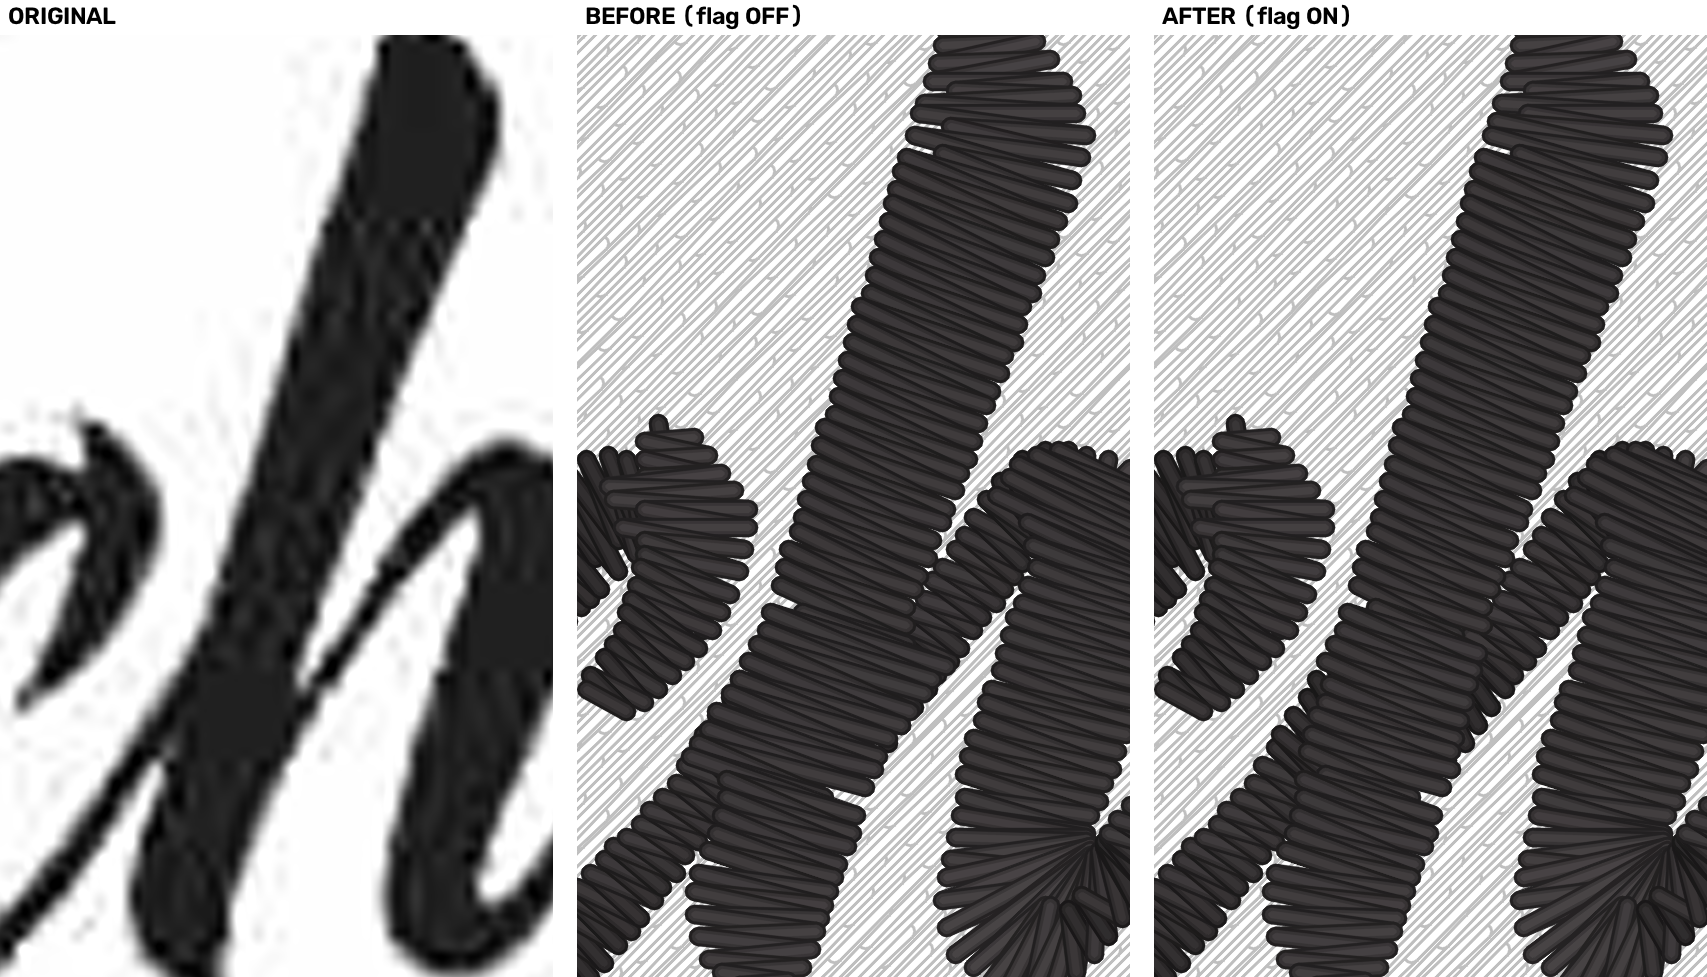
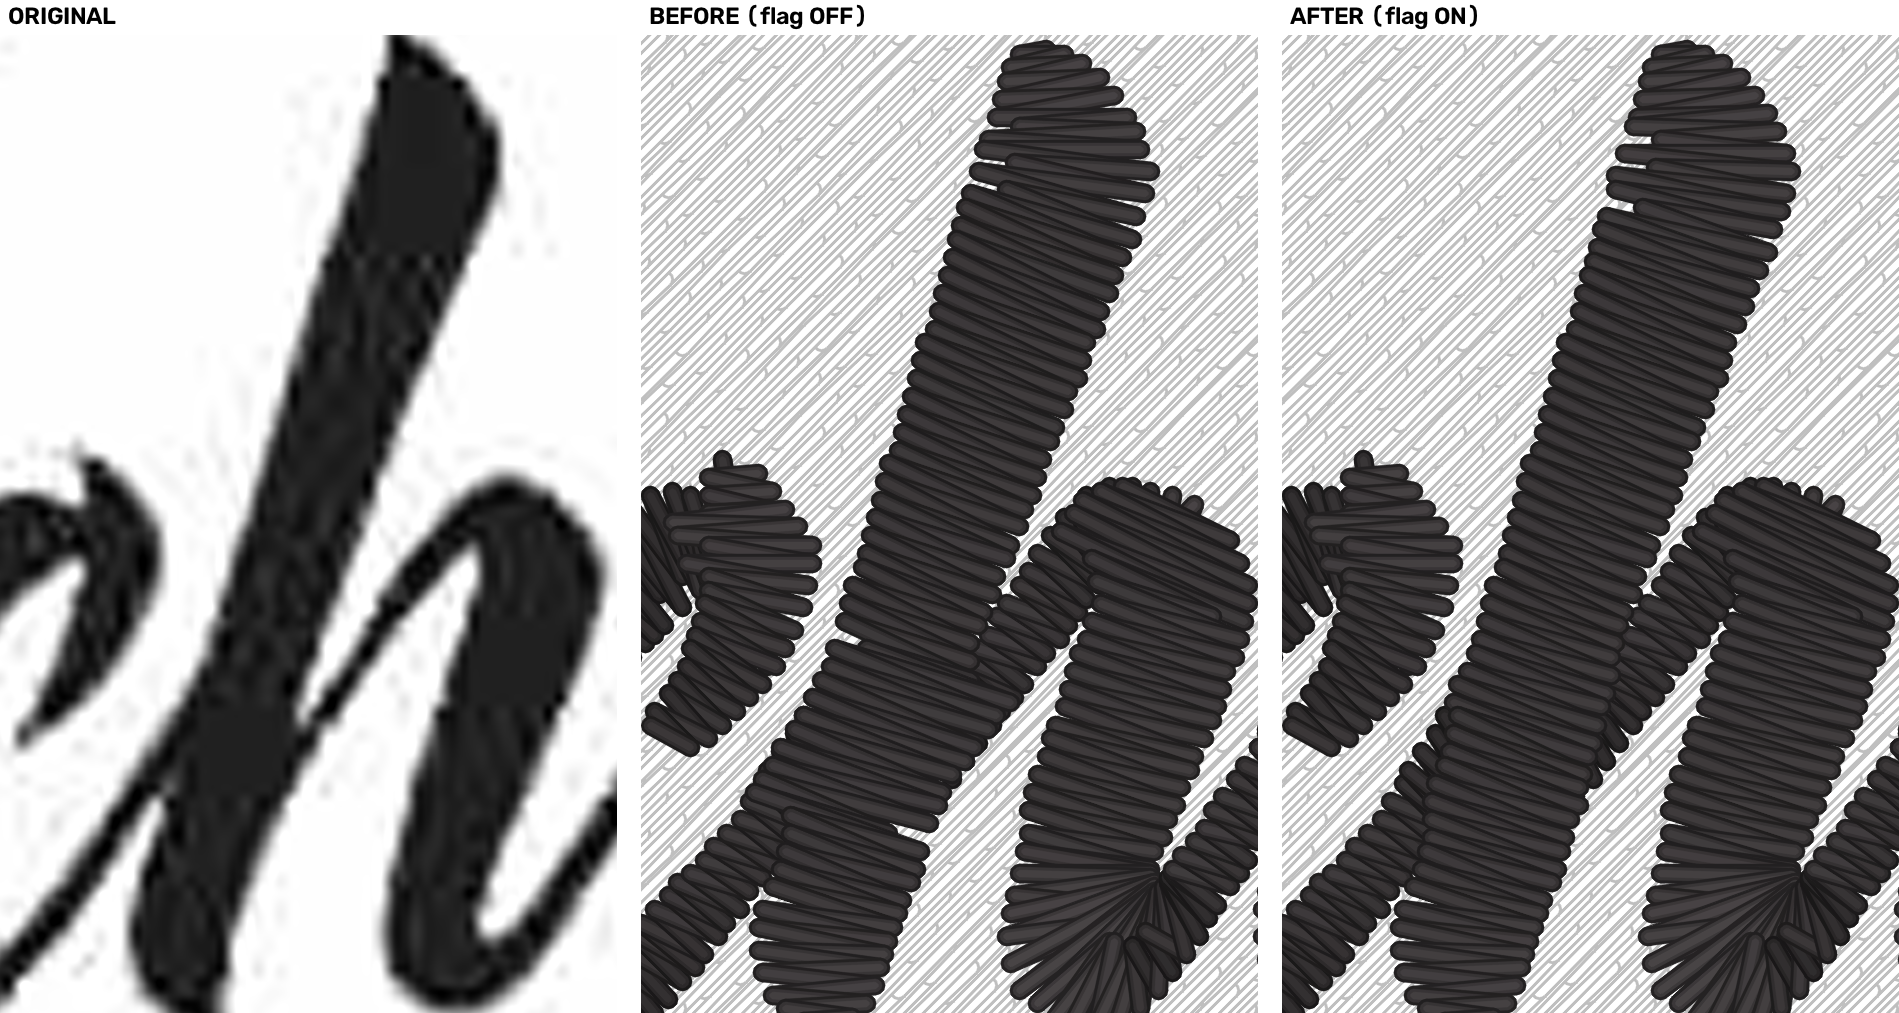
wedge cap: final-rule pictures and README (2 of 35 move; the h's seam gone)
Claude-Session: https://claude.ai/code/session_01SfRndNUkyhCBW9javrimQX

diff --git a/docs/renders/wedge-cap-2026-11-18/README.md b/docs/renders/wedge-cap-2026-11-18/README.md
@@ -2,34 +2,40 @@
 
 Prime-grader fault: Toat Machine's "h" stem "built from offset segments with visible steps"
 (`docs/toat-machine-h-stem-diagnosis-2026-11-18.md`). The flag, `cfg.extra["lettering_columns_stem_wedge_cap"]`,
-lets a script word's THICKER column give back a junction wedge (the ink where a thinner stroke merges into it)
-to a THINNER sibling column that already covers that ground, so the stem sews at its own width.
+does two things to a script word's columns:
+
+1. the THICKER column gives a junction wedge (the ink where a thinner stroke merges into it) back to a THINNER
+   sibling column that already covers that ground, so the stem sews at its own width;
+2. the rail points around each wedge's ends are re-spaced evenly, which clears the notch the skeleton's join kink left
+   there (the grader's seam at y 35.0 and y 39.5).
 
 **Moved: 2 of 35 runs. Pictured: 2 of 2.** 9 committed pro jobs at their own sizes plus the 26
-`corpus_scorecard.FIXTURES` at the Studio request (80 mm, `left_chest`), stitch md5 of OFF against ON.
-The other 33 are byte-identical. None is worse by eye; one improves; one shows no visible change.
+`corpus_scorecard.FIXTURES` at the Studio request (80 mm, `left_chest`), stitch md5 of OFF against ON. The other 33
+are byte-identical, the beanie and both Tires jobs included. Bare artwork is 0 -> 0 mm2 on both movers.
 
-Every picture is ORIGINAL | BEFORE (flag OFF) | AFTER (flag ON), same size and frame. No professional's file is
-rendered. Files: `<name>_overview.png` (whole design), `<name>_close1.png` (the changed spot).
+Every picture is ORIGINAL | BEFORE (flag OFF) | AFTER (flag ON), same size and frame (the word view stacks them).
+No professional's file is rendered. Files: `<name>_overview.png` (whole design), `<name>_close1.png` (the changed
+spot), `toat_machine_hat_word.png` (the word "achine", the three stacked).
 
 ## Movers, worst first, each with what changed in the plan
 
 | design | by eye | plan change | plan's own measure (shape, OFF -> ON) |
 |---|---|---|---|
-| `fx_photo_logo_bridge_bar` (80 mm left chest) | no visible change | in the script word `S80a42266`, two columns trimmed from their wider side: 14 of 82 stations (mean 1.56 mm, max 1.92) and 5 of 22 (mean 0.66, max 0.83); each trimmed station's removed ink lies inside a thinner sibling column's piece. Stitch count 10,877 both ways (points moved, none added or dropped) | `satin_cover` 0.9924 -> 0.9924, bare artwork 0 -> 0 mm2 |
-| `toat_machine_hat` (89.5 mm hat) | better, not complete | in the word `S038da90f`, the h stem column (61 stations): 13 trimmed, mean 0.71 mm, max 0.99. Cross width over the junction ran 3.1-3.4 against 2.3-2.5 either side with a step at each end; now 2.5-2.7 across it. The c-tail/arch column (63 stations) is untouched. Stitches 17,262 -> 17,260 | `satin_cover` 0.9954 -> 0.9955, bare artwork 0 -> 0 mm2 |
+| `fx_photo_logo_bridge_bar` (80 mm left chest) | mixed: the e's right bowl, a pile of crossing stitches before, is now a clean arc of parallel crosses; the long diagonal stitches that link the g to the e were already there and a few more now cross that spot | in the script word `S80a42266`, two columns trimmed from their wider side: 16 of 82 stations (max 1.93 mm) and 5 of 22 (max 0.76), rails re-spaced at the run ends; the word's runs 53 -> 61 (the walk re-cut), points 1,010 -> 995, stitches 10,877 -> 10,853 | `satin_cover` 0.9924 -> 0.9929, bare artwork 0 -> 0 mm2 |
+| `toat_machine_hat` (89.5 mm hat) | better: the h is one smooth column from the top to the foot, no step, no seam, the c's tail joins it cleanly. Left as it was: the stem's top cap is still irregular (a separate pin) | in the word `S038da90f`, the h stem column (61 stations): 13 trimmed (mean over the run 0.25 mm, max 0.98), rails re-spaced at both ends of the wedge. The c-tail/arch column (63 stations) is untouched. The two one-cross notches that were 1.9 mm against 2.9-3.0 neighbours, at y 35.2 and y 38.9, are now 3.01 and 3.10. Stitches 17,155 -> 17,153 | `satin_cover` 0.9954 -> 0.9957, bare artwork 0 -> 0 mm2 |
 
-**The hat's h** (`toat_machine_hat_close1.png`): the stem is now one smooth column from top to the junction. The
-wider middle chunk and the wedge on the right edge are gone and the left edge runs straight. What is NOT gone: a
-white seam low on the stem, where the lower end of the c-tail column meets it, and a small notch beside the c's tail.
 `satin_thin_arm_stop` is neutral on this fault (it changes the stem's top cap only).
 
 ## Rule history, so the next reader does not rebuild the loose versions
 
-The first rule (a column gives its wedge to ANY covering sibling) moved 5 of 35: both Tires jobs and the Toat
-beanie as well, with cuts up to 2.4 mm on Tires' heavy letters. By eye there was nothing to see on them, and on the h
-it was wrong: the thin c-tail column, taken first, gave ITS ground across the stem to the stem, so the stem found
-nothing to hand over and kept its wedge. The final rule: a column gives a wedge only to a sibling whose median cross
-is under 0.85 of its own, and each column reads the siblings as already capped. The Tires pair and the beanie then
-do not move (byte-identical). The beanie answers option C: the final rule does not fire on it (byte-identical), so
-the flag does nothing there at its size. Why (a different wedge shape, or a sibling that is not thinner) was not traced.
+- The first rule (a column gives its wedge to ANY covering sibling) moved 5 of 35, both Tires jobs and the beanie too
+  (cuts up to 2.4 mm), with nothing to see, and on the h it was wrong: the thin c-tail column, taken first, gave ITS
+  ground across the stem to the stem, so the stem found nothing to hand over and kept its wedge.
+- The final rule: a column gives a wedge only to a sibling whose median cross is under 0.85 of its own, and each column
+  reads the siblings as already capped. The Tires pair and the beanie then do not move.
+- The wedge cut alone left the seam: rail points trimmed onto the slanted cross line shifted along the column and
+  bunched two penetrations; they now go on the chord. The skeleton's join kink still left one rail point 0.1-0.2 mm
+  off its pitch at each wedge end, so the next stage shortened that cross into a notch; the even re-spacing clears it.
+- A push ramp in `stage6_satin._push_rails` (the first guess at the seam, the held push easing in over four stations)
+  was built and DROPPED: the re-spacing alone clears the h, and the ramp reached every lane column, moving 18 of 35
+  runs with cover losses of up to 0.046 (Gaulke's `S93841276` 1.0000 -> 0.9537, Drone's `S95978c7e` bare 1.109 -> 1.337 mm2).
